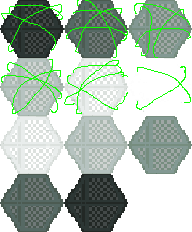
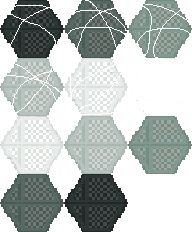
Falta hacer merge ademas de unas cuantas animaciones, pero se haran en el master (despues del merge)

diff --git a/ProyectosSDL/HolaSDL/puzzle1State.h b/ProyectosSDL/HolaSDL/puzzle1State.h
@@ -17,16 +17,21 @@ private:
 	//----------------------VECTORES DE OBJETOS, OBJETOS Y VECTOR AUXILIAR-------------------------
 	vector<vector<CasillaPuzzle1*>> matriz;
 	vector<Boton*> botones;
+	vector<RenderComponent*> botonesAnim;
 	vector<vector<int>> matrizOriginal;
 	Boton* resetButton;
-	RenderComponent* imagenMarca;
+	RenderComponent* HUD;
+	RenderComponent* reiniciar;
+	RenderComponent* imagenCopia;
+	Entity* copia = new Entity(app);
+	Entity* puzzleHud = new Entity(app);
 
 	//--------------------------VARIABLES AUXILIARES-----------------------------------------
 	const int numCas = 5;
 	int numRestantes = 0;
-	const int espaciado = 85.0;
+	const int espaciado = 117.0;
 	pair<const double, const double> relacion = { app->getWindowWidth() / 800.0 , app->getWindowHeight() / 600.0 };
-	const double topD = relacion.first*(espaciado*4 + 137 + espaciado/2), topI = relacion.first*(137-espaciado/2), topA = relacion.second*(112 - espaciado / 2), topAB = relacion.second*(espaciado*4 + 112 + espaciado / 2);
+	const double topD = relacion.first*(espaciado*4 + 240 + espaciado/2), topI = relacion.first*(240-espaciado/2), topA = relacion.second*(53 - (espaciado-10) / 2), topAB = relacion.second*((espaciado-5)*4 + 53 + espaciado / 2);
 	double auxI, auxD, auxA, auxAB;
 	bool mover = false;
 	int currentFil, currentCol;
@@ -51,7 +56,7 @@ private:
 		else {
 			for (int i = numCas - 1; i > 0; i--) swap(matriz[4][c], matriz[i - 1][c]);
 			for (int i = 0; i < numCas; i++) {
-				int j = (int)topAB - ((int)(relacion.second*espaciado) / 2) - (int)(i*espaciado*relacion.second);
+				int j = (int)topAB - ((int)(relacion.second*(espaciado)) / 2) - (int)(i*(espaciado-5)*relacion.second);
 				matriz[numCas - 1 - i][c]->setPosition(Vector2D(matriz[numCas - 1 - i][c]->getPosition().getX(), j));
 			}
 		}
@@ -71,10 +76,7 @@ public:
 		}
 		else GameState::handleEvent(event);
 	}
-	virtual void render() { 
-		if (previousState != nullptr) previousState->render();
-		GameState::render(); 
-	}
+	virtual void render() { GameState::render(); }
 	virtual void update();
 
 	GameState* getPreviousState() { return previousState; };

diff --git a/ProyectosSDL/HolaSDL/Resources.cpp b/ProyectosSDL/HolaSDL/Resources.cpp
@@ -11,7 +11,7 @@ std::vector<std::string> Resources::imageFiles_ { "..//images/AlenaSpriteSheet.p
 	"..//images/botellaVodka.png", "..//images/cuaderno.png", "..//images/fotoNoviaMuerto.png",
 	"..//images/llaveHotel.png", "..//images/llavePiso.png", "..//images/movilMuerto.png", "..//images/ticketCompra.png",
 	"..//images/vater.png", "..//images/lavaboDucha.png", "..//images/bano.png" , "..//images/botonPuzzle.png" , "..//images/botonPuzzleP.png" , 
-	"..//images/casillaPuzzleV.png" , "..//images/llavePisoPuzzle.png" };
+	"..//images/casillaPuzzleV.png" , "..//images/llavePisoPuzzle.png" , "..//images/PuzzleHud.png" , "..//images/botonReiniciar.png" };
 
 #include <iostream>
 

diff --git a/ProyectosSDL/HolaSDL/Resources.h b/ProyectosSDL/HolaSDL/Resources.h
@@ -47,6 +47,8 @@ public:
 		BotonPuzzleP,
 		CasillaPuzzleV,
 		llavePisoPuzzle,
+		PuzzleHud,
+		BotonReiniciar,
 
 	};
 private:
